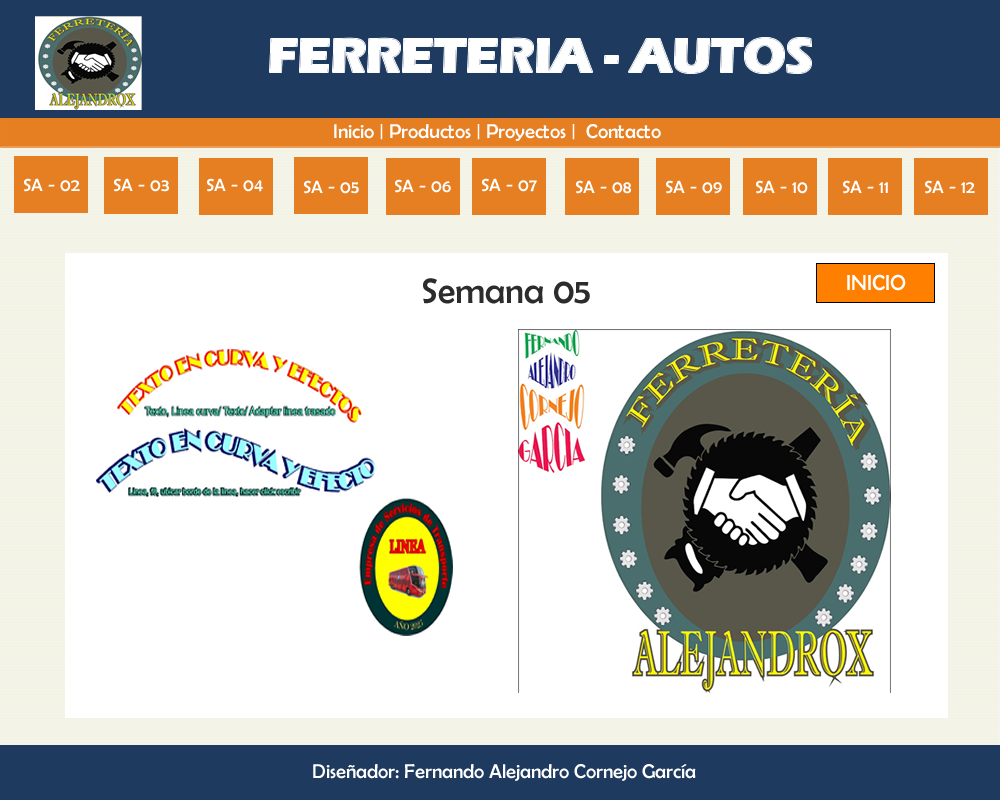
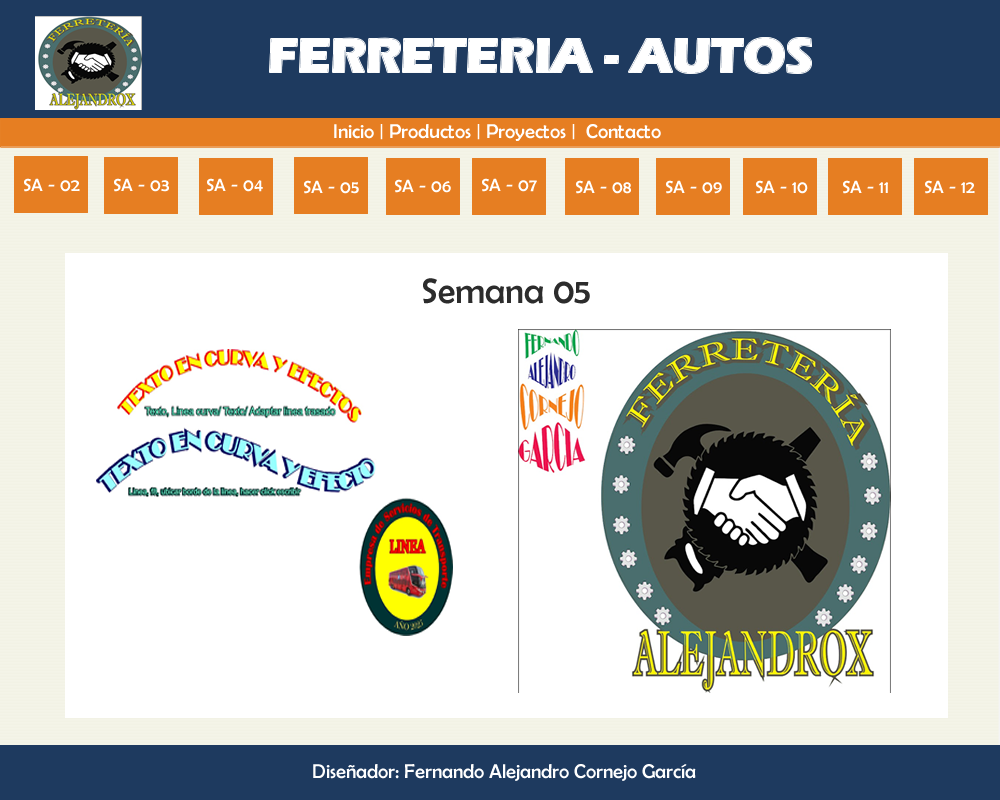
Add files via upload

Changed region(s): [[0.806, 0.3125, 0.961, 0.4062]]

diff --git a/index.html b/index.html
@@ -5,12 +5,12 @@
 <head>
 <title>index</title>
 <meta http-equiv="Content-Type" content="text/html; charset=utf-8" />
-<!--Fireworks CS6 Dreamweaver CS6 target.  Created Tue Jul 01 07:23:09 GMT-0500 2025-->
+<!--Fireworks CS6 Dreamweaver CS6 target.  Created Wed Jul 02 11:23:44 GMT-0500 2025-->
 </head>
 <center>
 <body bgcolor="#ffffff">
 <img name="index" src="index.png" width="1000" height="800" id="index" usemap="#m_index" alt="" /><map name="m_index" id="m_index">
-<area shape="rect" coords="816,263,935,303" href="index.html" alt="" />
+<area shape="rect" coords="35,16,142,110" href="index.html" alt="" />
 <area shape="rect" coords="915,158,987,214" href="s12.html" alt="" />
 <area shape="rect" coords="829,157,901,214" href="s11.html" alt="" />
 <area shape="rect" coords="744,159,816,214" href="s10.html" alt="" />

diff --git a/s02.html b/s02.html
@@ -5,12 +5,12 @@
 <head>
 <title>s02</title>
 <meta http-equiv="Content-Type" content="text/html; charset=utf-8" />
-<!--Fireworks CS6 Dreamweaver CS6 target.  Created Tue Jul 01 07:28:44 GMT-0500 2025-->
+<!--Fireworks CS6 Dreamweaver CS6 target.  Created Wed Jul 02 11:23:51 GMT-0500 2025-->
 </head>
 <center>
 <body bgcolor="#ffffff">
 <img name="s02" src="s02.png" width="1000" height="800" id="s02" usemap="#m_s02" alt="" /><map name="m_s02" id="m_s02">
-<area shape="rect" coords="816,263,935,303" href="index.html" alt="" />
+<area shape="rect" coords="35,16,142,110" href="index.html" alt="" />
 <area shape="rect" coords="915,158,987,214" href="s12.html" alt="" />
 <area shape="rect" coords="829,157,901,214" href="s11.html" alt="" />
 <area shape="rect" coords="744,159,816,214" href="s10.html" alt="" />

diff --git a/s03.html b/s03.html
@@ -5,12 +5,12 @@
 <head>
 <title>s03</title>
 <meta http-equiv="Content-Type" content="text/html; charset=utf-8" />
-<!--Fireworks CS6 Dreamweaver CS6 target.  Created Tue Jul 01 07:35:19 GMT-0500 2025-->
+<!--Fireworks CS6 Dreamweaver CS6 target.  Created Wed Jul 02 11:23:57 GMT-0500 2025-->
 </head>
 <center>
 <body bgcolor="#ffffff">
 <img name="s03" src="s03.png" width="1000" height="800" id="s03" usemap="#m_s03" alt="" /><map name="m_s03" id="m_s03">
-<area shape="rect" coords="816,263,935,303" href="index.html" alt="" />
+<area shape="rect" coords="35,16,142,110" href="index.html" alt="" />
 <area shape="rect" coords="915,158,987,214" href="s12.html" alt="" />
 <area shape="rect" coords="829,157,901,214" href="s11.html" alt="" />
 <area shape="rect" coords="744,159,816,214" href="s10.html" alt="" />

diff --git a/s04.html b/s04.html
@@ -5,12 +5,12 @@
 <head>
 <title>s04</title>
 <meta http-equiv="Content-Type" content="text/html; charset=utf-8" />
-<!--Fireworks CS6 Dreamweaver CS6 target.  Created Tue Jul 01 07:39:38 GMT-0500 2025-->
+<!--Fireworks CS6 Dreamweaver CS6 target.  Created Wed Jul 02 11:24:07 GMT-0500 2025-->
 </head>
 <center>
 <body bgcolor="#ffffff">
 <img name="s04" src="s04.png" width="1000" height="800" id="s04" usemap="#m_s04" alt="" /><map name="m_s04" id="m_s04">
-<area shape="rect" coords="816,263,935,303" href="index.html" alt="" />
+<area shape="rect" coords="35,16,142,110" href="index.html" alt="" />
 <area shape="rect" coords="915,158,987,214" href="s12.html" alt="" />
 <area shape="rect" coords="829,157,901,214" href="s11.html" alt="" />
 <area shape="rect" coords="744,159,816,214" href="s10.html" alt="" />

diff --git a/s05.html b/s05.html
@@ -5,12 +5,12 @@
 <head>
 <title>s05</title>
 <meta http-equiv="Content-Type" content="text/html; charset=utf-8" />
-<!--Fireworks CS6 Dreamweaver CS6 target.  Created Tue Jul 01 07:43:25 GMT-0500 2025-->
+<!--Fireworks CS6 Dreamweaver CS6 target.  Created Wed Jul 02 11:24:36 GMT-0500 2025-->
 </head>
 <center>
 <body bgcolor="#ffffff">
 <img name="s05" src="s05.png" width="1000" height="800" id="s05" usemap="#m_s05" alt="" /><map name="m_s05" id="m_s05">
-<area shape="rect" coords="816,263,935,303" href="index.html" alt="" />
+<area shape="rect" coords="35,16,142,110" href="index.html" alt="" />
 <area shape="rect" coords="915,158,987,214" href="s12.html" alt="" />
 <area shape="rect" coords="829,157,901,214" href="s11.html" alt="" />
 <area shape="rect" coords="744,159,816,214" href="s10.html" alt="" />

diff --git a/s06.html b/s06.html
@@ -5,12 +5,12 @@
 <head>
 <title>s06</title>
 <meta http-equiv="Content-Type" content="text/html; charset=utf-8" />
-<!--Fireworks CS6 Dreamweaver CS6 target.  Created Tue Jul 01 07:45:25 GMT-0500 2025-->
+<!--Fireworks CS6 Dreamweaver CS6 target.  Created Wed Jul 02 11:24:46 GMT-0500 2025-->
 </head>
 <center>
 <body bgcolor="#ffffff">
 <img name="s06" src="s06.png" width="1000" height="800" id="s06" usemap="#m_s06" alt="" /><map name="m_s06" id="m_s06">
-<area shape="rect" coords="816,263,935,303" href="index.html" alt="" />
+<area shape="rect" coords="35,16,142,110" href="index.html" alt="" />
 <area shape="rect" coords="915,158,987,214" href="s12.html" alt="" />
 <area shape="rect" coords="829,157,901,214" href="s11.html" alt="" />
 <area shape="rect" coords="744,159,816,214" href="s10.html" alt="" />

diff --git a/s07.html b/s07.html
@@ -5,12 +5,12 @@
 <head>
 <title>s07</title>
 <meta http-equiv="Content-Type" content="text/html; charset=utf-8" />
-<!--Fireworks CS6 Dreamweaver CS6 target.  Created Tue Jul 01 07:48:02 GMT-0500 2025-->
+<!--Fireworks CS6 Dreamweaver CS6 target.  Created Wed Jul 02 11:24:56 GMT-0500 2025-->
 </head>
 <center>
 <body bgcolor="#ffffff">
 <img name="s07" src="s07.png" width="1000" height="800" id="s07" usemap="#m_s07" alt="" /><map name="m_s07" id="m_s07">
-<area shape="rect" coords="816,263,935,303" href="index.html" alt="" />
+<area shape="rect" coords="35,16,142,110" href="index.html" alt="" />
 <area shape="rect" coords="915,158,987,214" href="s12.html" alt="" />
 <area shape="rect" coords="829,157,901,214" href="s11.html" alt="" />
 <area shape="rect" coords="744,159,816,214" href="s10.html" alt="" />

diff --git a/s08.html b/s08.html
@@ -5,12 +5,12 @@
 <head>
 <title>s08</title>
 <meta http-equiv="Content-Type" content="text/html; charset=utf-8" />
-<!--Fireworks CS6 Dreamweaver CS6 target.  Created Tue Jul 01 07:56:50 GMT-0500 2025-->
+<!--Fireworks CS6 Dreamweaver CS6 target.  Created Wed Jul 02 11:25:02 GMT-0500 2025-->
 </head>
 <center>
 <body bgcolor="#ffffff">
 <img name="s08" src="s08.png" width="1000" height="800" id="s08" usemap="#m_s08" alt="" /><map name="m_s08" id="m_s08">
-<area shape="rect" coords="816,263,935,303" href="index.html" alt="" />
+<area shape="rect" coords="35,16,165,110" href="index.html" alt="" />
 <area shape="rect" coords="915,158,987,214" href="s12.html" alt="" />
 <area shape="rect" coords="829,157,901,214" href="s11.html" alt="" />
 <area shape="rect" coords="744,159,816,214" href="s10.html" alt="" />

diff --git a/s09.html b/s09.html
@@ -5,12 +5,12 @@
 <head>
 <title>s09</title>
 <meta http-equiv="Content-Type" content="text/html; charset=utf-8" />
-<!--Fireworks CS6 Dreamweaver CS6 target.  Created Tue Jul 01 07:58:14 GMT-0500 2025-->
+<!--Fireworks CS6 Dreamweaver CS6 target.  Created Wed Jul 02 11:25:07 GMT-0500 2025-->
 </head>
 <center>
 <body bgcolor="#ffffff">
 <img name="s09" src="s09.png" width="1000" height="800" id="s09" usemap="#m_s09" alt="" /><map name="m_s09" id="m_s09">
-<area shape="rect" coords="816,263,935,303" href="index.html" alt="" />
+<area shape="rect" coords="35,16,165,110" href="index.html" alt="" />
 <area shape="rect" coords="915,158,987,214" href="s12.html" alt="" />
 <area shape="rect" coords="829,157,901,214" href="s11.html" alt="" />
 <area shape="rect" coords="744,159,816,214" href="s10.html" alt="" />

diff --git a/s10.html b/s10.html
@@ -5,12 +5,12 @@
 <head>
 <title>s10</title>
 <meta http-equiv="Content-Type" content="text/html; charset=utf-8" />
-<!--Fireworks CS6 Dreamweaver CS6 target.  Created Tue Jul 01 08:01:00 GMT-0500 2025-->
+<!--Fireworks CS6 Dreamweaver CS6 target.  Created Wed Jul 02 11:25:20 GMT-0500 2025-->
 </head>
 <center>
 <body bgcolor="#ffffff">
 <img name="s10" src="s10.png" width="1000" height="800" id="s10" usemap="#m_s10" alt="" /><map name="m_s10" id="m_s10">
-<area shape="rect" coords="816,263,935,303" href="index.html" alt="" />
+<area shape="rect" coords="35,16,165,110" href="index.html" alt="" />
 <area shape="rect" coords="915,158,987,214" href="s12.html" alt="" />
 <area shape="rect" coords="829,157,901,214" href="s11.html" alt="" />
 <area shape="rect" coords="744,159,816,214" href="s10.html" alt="" />

diff --git a/s11.html b/s11.html
@@ -5,12 +5,12 @@
 <head>
 <title>s11</title>
 <meta http-equiv="Content-Type" content="text/html; charset=utf-8" />
-<!--Fireworks CS6 Dreamweaver CS6 target.  Created Tue Jul 01 08:02:21 GMT-0500 2025-->
+<!--Fireworks CS6 Dreamweaver CS6 target.  Created Wed Jul 02 11:25:25 GMT-0500 2025-->
 </head>
 <center>
 <body bgcolor="#ffffff">
 <img name="s11" src="s11.png" width="1000" height="800" id="s11" usemap="#m_s11" alt="" /><map name="m_s11" id="m_s11">
-<area shape="rect" coords="816,263,935,303" href="index.html" alt="" />
+<area shape="rect" coords="35,16,165,110" href="index.html" alt="" />
 <area shape="rect" coords="915,158,987,214" href="s12.html" alt="" />
 <area shape="rect" coords="829,157,901,214" href="s11.html" alt="" />
 <area shape="rect" coords="744,159,816,214" href="s10.html" alt="" />

diff --git a/s12.html b/s12.html
@@ -5,12 +5,12 @@
 <head>
 <title>s12</title>
 <meta http-equiv="Content-Type" content="text/html; charset=utf-8" />
-<!--Fireworks CS6 Dreamweaver CS6 target.  Created Tue Jul 01 08:03:55 GMT-0500 2025-->
+<!--Fireworks CS6 Dreamweaver CS6 target.  Created Wed Jul 02 11:25:31 GMT-0500 2025-->
 </head>
 <center>
 <body bgcolor="#ffffff">
 <img name="s12" src="s12.png" width="1000" height="800" id="s12" usemap="#m_s12" alt="" /><map name="m_s12" id="m_s12">
-<area shape="rect" coords="816,263,935,303" href="index.html" alt="" />
+<area shape="rect" coords="35,16,165,110" href="index.html" alt="" />
 <area shape="rect" coords="915,158,987,214" href="s12.html" alt="" />
 <area shape="rect" coords="829,157,901,214" href="s11.html" alt="" />
 <area shape="rect" coords="744,159,816,214" href="s10.html" alt="" />
